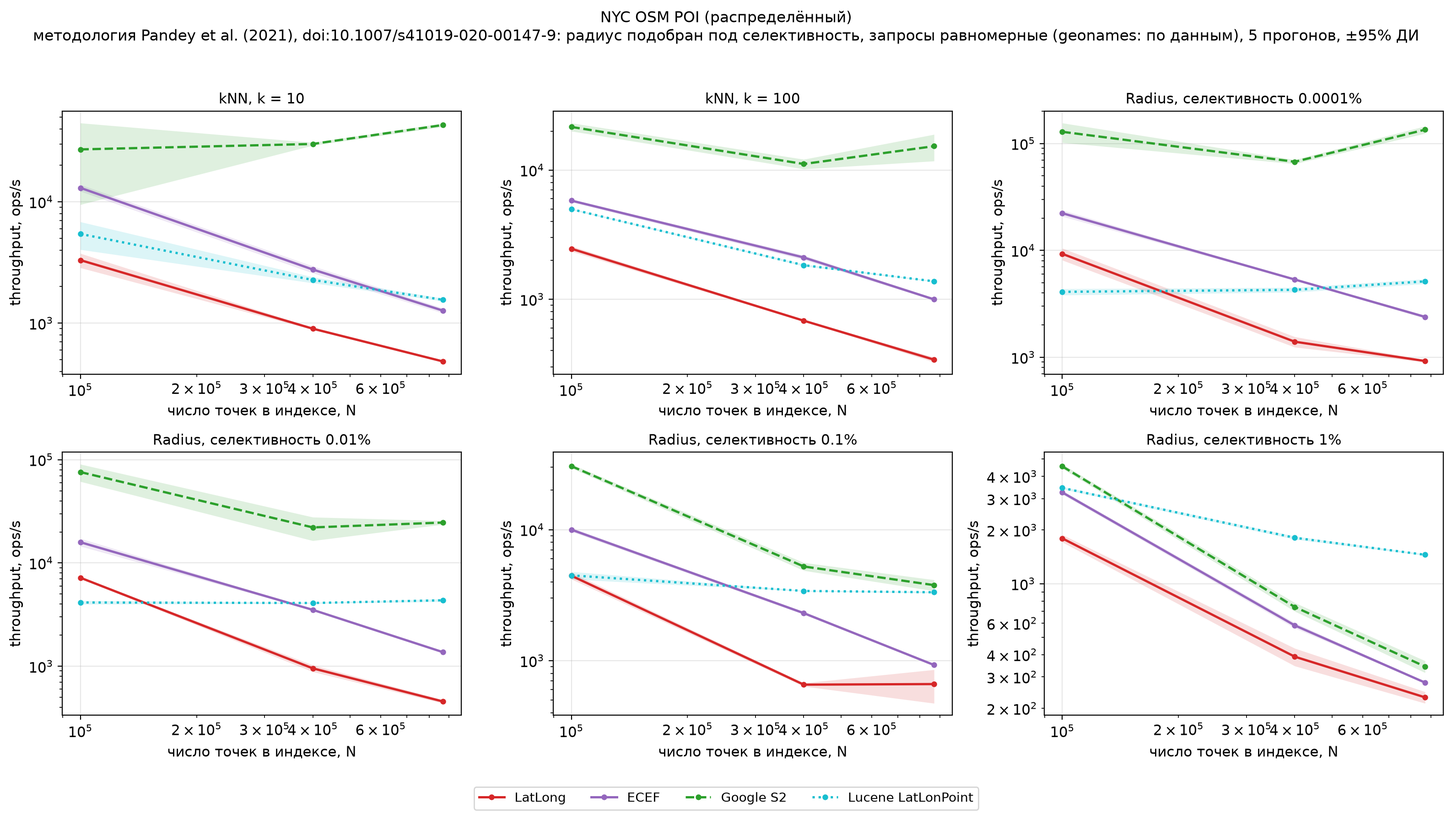
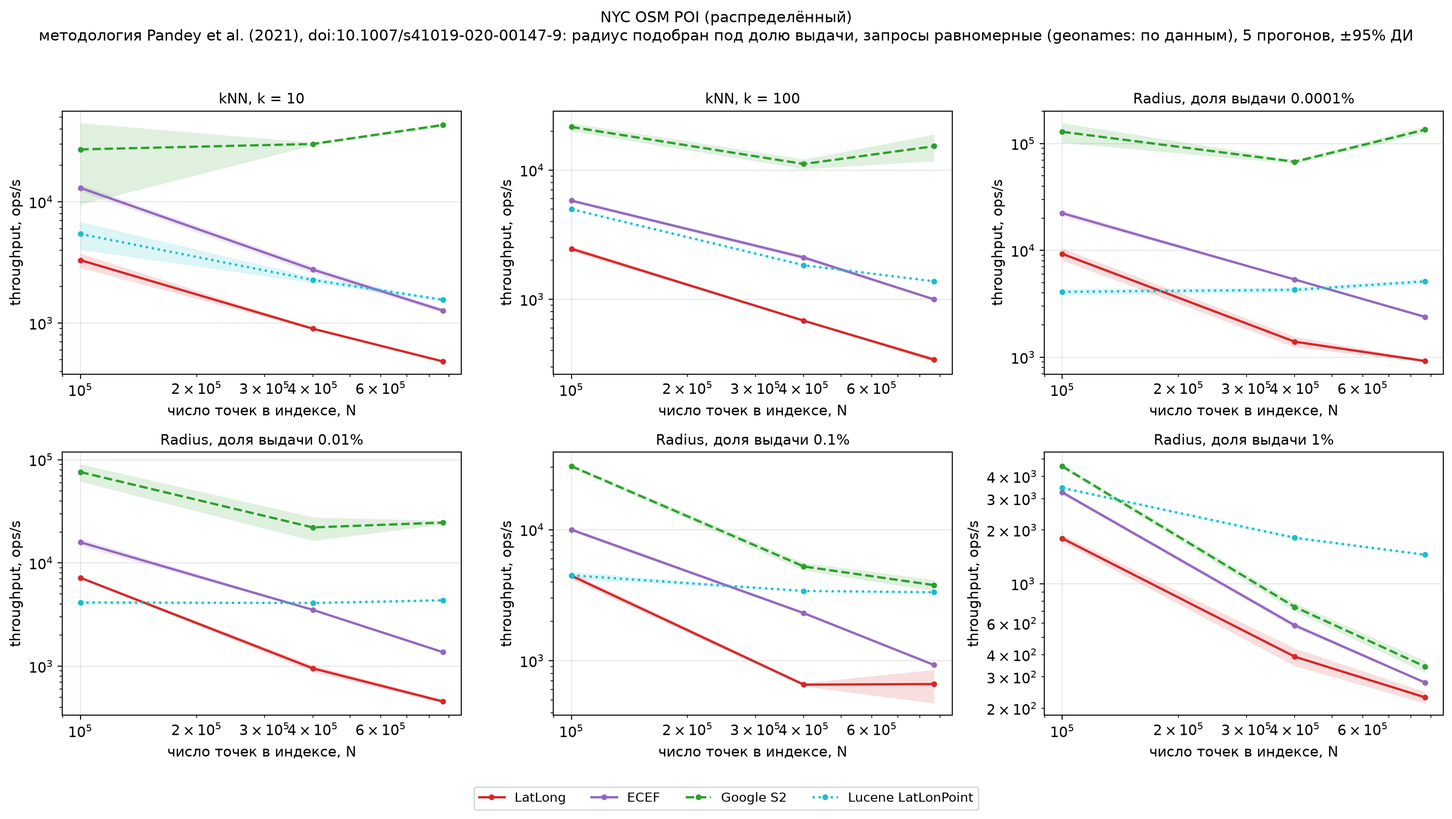
docs: selectivity terminology and datasets

diff --git a/lab-1-java-geo-kdtree/tools/make_ecef_charts.py b/lab-1-java-geo-kdtree/tools/make_ecef_charts.py
@@ -20,6 +20,7 @@ import matplotlib
 
 matplotlib.use("Agg")
 import matplotlib.pyplot as plt
+import numpy as np
 
 sys.path.insert(0, str(Path(__file__).resolve().parent))
 from make_charts import Measurement, parse_jmh  # noqa: E402
@@ -430,10 +431,10 @@ def chart_realdata_2x2():
 SEL_PANELS = [
     ("knn k=10", "kNN, k = 10"),
     ("knn k=100", "kNN, k = 100"),
-    ("sel 0.0001%", "Radius, селективность 0.0001%"),
-    ("sel 0.01%", "Radius, селективность 0.01%"),
-    ("sel 0.1%", "Radius, селективность 0.1%"),
-    ("sel 1%", "Radius, селективность 1%"),
+    ("sel 0.0001%", "Radius, доля выдачи 0.0001%"),
+    ("sel 0.01%", "Radius, доля выдачи 0.01%"),
+    ("sel 0.1%", "Radius, доля выдачи 0.1%"),
+    ("sel 1%", "Radius, доля выдачи 1%"),
 ]
 SEL_IMPLS = [
     ("v6", "LatLong", {"color": "#d62728", "linestyle": "-"}),
@@ -497,7 +498,7 @@ def chart_selectivity():
         fig.legend(handles, labels, loc="lower center", ncol=4, fontsize=10,
                    bbox_to_anchor=(0.5, 0.0))
         fig.suptitle(f"{ds_title}\nметодология Pandey et al. (2021), "
-                     f"doi:10.1007/s41019-020-00147-9: радиус подобран под селективность, "
+                     f"doi:10.1007/s41019-020-00147-9: радиус подобран под долю выдачи, "
                      f"запросы равномерные (geonames: по данным), {REPS_TXT} прогонов, ±95% ДИ",
                      fontsize=12)
         fig.tight_layout(rect=(0, 0.05, 1, 0.96))
@@ -507,6 +508,58 @@ def chart_selectivity():
 
 
 REPS_TXT = "5"
+
+
+def chart_dataset_distribution():
+    """2x2 scatter of the four selectivity-benchmark datasets (sampled ~30k points)."""
+    data_dir = ROOT / ".bench-collection/data"
+    if not data_dir.exists():
+        return
+    out = CHARTS / "selectivity"
+    out.mkdir(parents=True, exist_ok=True)
+    rng = np.random.default_rng(42)
+    n_show = 30_000
+
+    panels = []
+    lat = 40.45 + 0.5 * rng.random(n_show)
+    lng = -74.30 + 0.7 * rng.random(n_show)
+    panels.append(("uniform-bbox: генератор, N до 10 млн", lat, lng))
+
+    taxi = np.loadtxt(data_dir / "taxi-nyc.csv", delimiter=",", max_rows=2_000_000)
+    idx = rng.choice(len(taxi), min(n_show, len(taxi)), replace=False)
+    panels.append(("New York Taxi: выборка из 1.5 млн, сетка до 7.9 млн",
+                   taxi[idx, 0], taxi[idx, 1]))
+
+    poi = np.loadtxt(data_dir / "nyc-poi.csv", delimiter=",", max_rows=1_000_000)
+    idx = rng.choice(len(poi), min(n_show, len(poi)), replace=False)
+    panels.append(("OSM POI NYC: 870 тыс. точек", poi[idx, 0], poi[idx, 1]))
+
+    geo_lat, geo_lng = [], []
+    with (data_dir / "cities500.txt").open(encoding="utf-8") as fh:
+        for line in fh:
+            parts = line.split("\t")
+            if len(parts) < 6:
+                continue
+            try:
+                geo_lat.append(float(parts[4]))
+                geo_lng.append(float(parts[5]))
+            except ValueError:
+                continue
+    idx = rng.choice(len(geo_lat), min(n_show, len(geo_lat)), replace=False)
+    panels.append(("GeoNames cities500: 230 тыс. городов мира",
+                   np.array(geo_lat)[idx], np.array(geo_lng)[idx]))
+
+    fig, axes = plt.subplots(2, 2, figsize=(13, 10))
+    for ax, (title, la, ln) in zip(axes.flat, panels):
+        ax.scatter(ln, la, s=0.3, alpha=0.4, linewidths=0)
+        ax.set_title(title, fontsize=11)
+        ax.set_xlabel("долгота")
+        ax.set_ylabel("широта")
+    fig.suptitle("Распределение точек по наборам данных (выборка ~30 тыс. точек на панель)")
+    fig.tight_layout(rect=(0, 0, 1, 0.97))
+    fig.savefig(out / "datasets-distribution.png")
+    plt.close(fig)
+    print("distribution chart written")
 
 
 def chart_tenm():

diff --git a/lab-1-java-geo-kdtree/REPORT.md b/lab-1-java-geo-kdtree/REPORT.md
@@ -6,21 +6,22 @@
 
 ## Цель
 
-Взять прямой порт C#-реализации KD-tree для геоточек и довести её до производительности, сопоставимой с промышленными библиотеками, с доказательством каждого шага замерами и профилями.
+Взять прямой порт C#-реализации KD-tree для геоточек. Довести её до производительности, сопоставимой с промышленными библиотеками. Каждый шаг доказать замерами и профилями.
 
 ## Обозначения
 
-- **LatLong**: реализация, работающая непосредственно в координатах широта/долгота (порт C# с оптимизациями шагов 2–6); историческая ветвь экспериментов.
-- **ECEF** (Earth-Centered, Earth-Fixed): действующая реализация, точки хранятся в землецентрических декартовых координатах.
+- **LatLong**: реализация, работающая непосредственно в координатах широта/долгота (порт C# с оптимизациями шагов 2–6). Историческая ветвь экспериментов.
+- **ECEF** (Earth-Centered, Earth-Fixed): действующая реализация. Точки хранятся в землецентрических декартовых координатах.
+- **Процент отобранных точек** (селективность): доля данных в выдаче запроса (0.01% = запрос отбирает одну сотую процента точек индекса). Далее по тексту — «доля отбора».
 - $R = 6\,371\,000$ м: радиус Земли (сферическая модель, гаверсинусовая метрика).
-- $\varphi$: широта, $\lambda$: долгота (в радианах, если не указано иное); $\Delta\varphi$, $\Delta\lambda$: разности между точкой запроса и узлом дерева.
-- Единица замеров: операции поиска в секунду (ops/s); все графики построены с 95%-доверительным интервалом.
+- $\varphi$: широта, $\lambda$: долгота (в радианах, если не указано иное). $\Delta\varphi$, $\Delta\lambda$: разности между точкой запроса и узлом дерева.
+- Единица замеров: операции поиска в секунду (ops/s). Все графики построены с 95%-доверительным интервалом.
 
 ## Результаты
 
-1. Выполнен полный цикл оптимизаций: шесть итераций над LatLong-реализацией, затем переход к ECEF с двумя оптимизациями; каждое состояние сохранено коммитом с замерами и профилями.
-2. Построен стенд сравнения: собственная реализация против Google S2, Apache Lucene, а также Java-библиотеки для ML Smile (статическая реализация KD tree и kNN/radius); реальные данные (NYC Taxi до 8 млн точек, OpenStreetMap PointsOfInterest), C#-версия с настроенным конфигом для сравнения с Java, сетка до 10 млн точек на кластерных данных.
-3. Улучшен бенчмаркинг: тесты на синтетических и реальных данных, увеличено количество замеров и разнообразие параметров прогона, запросы внутри кластеров и в случайных местах на глобусе, построены графики с доверительными интервалами, многопрогонные сверки спорных случаев. В процессе найдено и исправлено три проблемы в первоначальных замерах (дубликаты генератора, кучкование запросов, вырождение LatLong-реализации на отсортированной загрузке).
+1. Выполнен полный цикл оптимизаций: шесть итераций над LatLong-реализацией, затем переход к ECEF с двумя оптимизациями. Каждое состояние сохранено коммитом с замерами и профилями.
+2. Построен стенд сравнения по методологии Pandey et al. (2021): четыре набора данных (равномерный bbox Нью-Йорка до 10 млн точек, New York Taxi до 7.9 млн, OpenStreetMap Points Of Interest, GeoNames cities500) и четыре реализации (LatLong, ECEF, Google S2, Apache Lucene). Запросы параметризованы долей отбора, радиус каждого запроса подбирается индивидуально под целевую долю выдачи.
+3. Методика доведена до уровня, где цифрам можно верить: калибровка выдачи каждой ячейки (отклонение от цели ~1%), многопрогонные замеры с доверительными интервалами, инкрементальная запись результатов с возобновлением прогона.
 
 ## Результаты цикла оптимизаций
 
@@ -39,27 +40,27 @@
 | 5. сравнение без извлечения корня | порядок точек по расстоянию совпадает с порядком по величине $\sin^2(d/2R)$: сравнения без квадратного корня и обратного синуса; метры только для выдачи | 71 079 | 80 771 | 25 877 |
 | 6. предварительное вычисление косинусов при вставке | косинус широты узла хранится в узле, запроса считается один раз на запрос: в обходе остаются два синуса вместо двух синусов и двух косинусов | 111 643 | 109 758 | 29 336 |
 
-**Метрика baseline.** Расстояние по гаверсинусовой формуле:
+**Метрика baseline.** Расстояние считается по гаверсинусовой формуле:
 
 $$a = \sin^2\frac{\Delta\varphi}{2} + \cos\varphi_1\cos\varphi_2\cdot\sin^2\frac{\Delta\lambda}{2}, \qquad d = 2R\cdot\arcsin\sqrt{a}$$
 
-В исходном коде величина $d$ вычислялась целиком для каждой точки листа и каждой проверки ветви. Профиль показал ~94% CPU в `Math.asin` (реализация fdlibm): полиномиальная аппроксимация обратного синуса — самая дорогая часть формулы, и она выполняется чаще всего. Вывод, определивший весь цикл: ускорять не формулу, а число её вызовов, то есть отсекать дерево раньше, чем расстояние понадобится.
+В исходном коде величина $d$ вычислялась целиком для каждой точки листа и каждой проверки ветви. Профиль показал ~94% CPU в `Math.asin` (реализация fdlibm). Больше всего времени занимает полиномиальная аппроксимация обратного синуса, и вызывается она чаще всего. Вывод, определивший весь цикл: ускорять нужно не формулу, а число её вызовов. Дерево нужно отсекать раньше, чем расстояние понадобится.
 
-**Шаг 2. Отсечение по долготе.** KD-tree разделяет точки плоскостью (меридианом или параллелью); до ближайшей точки «альтернативной» ветви есть аналитическая нижняя граница. Для широтного сплита расстояние до границы равно дуге по меридиану, и её член $a$ выражается без тригонометрии запроса:
+**Шаг 2. Отсечение по долготе.** KD-tree разделяет точки плоскостью: меридианом или параллелью. До ближайшей точки альтернативной ветви есть аналитическая нижняя граница. Для широтного сплита расстояние до границы равно дуге по меридиану. Её член $a$ выражается без тригонометрии запроса:
 
 $$a_{\text{bound}} = \sin^2\frac{\Delta\varphi}{2}, \qquad \Delta\varphi = |\varphi_{\text{split}} - \varphi_q|$$
 
-Если $a_{\text{bound}} > a_r$ (член $a$ для радиуса запроса), ветвь заведомо пуста и не обходится. Для долготного сплита аналогичная граница: $R\cdot\arcsin(|\cos\varphi_q|\cdot\sin s)$, где $s$ — угловое расстояние до меридиана-сепаратора. В $a$-форме: $a_{\text{bound}} = \bigl(1-\sqrt{1-x^2}\bigr)/2$ при $x = |\cos\varphi_q|\cdot\sin s$, обратный синус по-прежнему не нужен. Оговорка: на линии смены дат значения долгот разрывны, и простая граница по $\Delta\lambda$ ошибочно отсекает близкие точки, поэтому без запрета отсечения у шва property-тесты ловят пропуски. Эффект шага: +20–26%.
+Если $a_{\text{bound}} > a_r$, ветвь заведомо пуста и не обходится. Здесь $a_r$ обозначает член $a$ для радиуса запроса. Для долготного сплита аналогичная граница: $R\cdot\arcsin(|\cos\varphi_q|\cdot\sin s)$. Здесь $s$ обозначает угловое расстояние до меридиана-сепаратора. В $a$-форме: $a_{\text{bound}} = \bigl(1-\sqrt{1-x^2}\bigr)/2$ при $x = |\cos\varphi_q|\cdot\sin s$. Обратный синус по-прежнему не нужен. Оговорка: на линии смены дат значения долгот разрывны. Простая граница по $\Delta\lambda$ там ошибочно отсекает близкие точки. Поэтому без запрета отсечения у шва property-тесты ловят пропуски. Эффект шага: +20–26%.
 
-**Шаг 3. Граница у шва карты.** Оговорка шага 2 заменена на точную геометрию: для долготного сплита расстояние считается до ближайшего ребра дуги, где $s = \min(\Delta\lambda,\ 360^\circ-\Delta\lambda)$. Линия смены дат рассматривается как второй кандидат-сепаратор. Отсечение становится корректным на всём диапазоне долгот, запрет снят, и именно здесь появляется основной скачок: ×3.5–5.1 к предыдущему состоянию.
+**Шаг 3. Граница у шва карты.** Оговорка шага 2 заменена на точную геометрию. Для долготного сплита расстояние считается до ближайшего ребра дуги: $s = \min(\Delta\lambda,\ 360^\circ-\Delta\lambda)$. Линия смены дат становится вторым кандидатом-сепаратором. Отсечение работает корректно на всём диапазоне долгот, запрет снят. Здесь появляется основной скачок: ×3.5–5.1 к предыдущему состоянию.
 
-**Шаг 4. Упорядоченный список кандидатов.** В kNN-поиске список лучших $k$ при каждом новом кандидате пересортировывался целиком ($O(k\log k)$ на принятие). Замена: список постоянно держится отсортированным по убыванию расстояния, худший кандидат стоит первым; новый элемент вставляется позицией, найденной бинарным поиском ($O(\log k)$), с удалением бывшего худшего. Эффект: +38% в k=20, в radius и k=1 без изменений.
+**Шаг 4. Упорядоченный список кандидатов.** В kNN-поиске список лучших $k$ при каждом новом кандидате пересортировывался целиком. Это стоит $O(k\log k)$ на принятие. Замена: список постоянно держится отсортированным по убыванию расстояния, худший кандидат стоит первым. Новый элемент вставляется на позицию, найденную бинарным поиском ($O(\log k)$). Бывший худший удаляется. Эффект: +38% в k=20, в radius и k=1 без изменений.
 
-**Шаг 5. Сравнения без извлечения корня.** Функция $d = 2R\cdot\arcsin\sqrt{a}$ строго монотонна по $a$, поэтому порядок точек по расстоянию совпадает с порядком по величине $a$. Обход и отсечение сравнивают $a$ кандидата с порогом $a_r = \sin^2(r/2R)$ (один синус на запрос) и с худшим элементом списка, не вычисляя ни $\sqrt{}$, ни $\arcsin$; метры достраиваются только для попаданий и принятых кандидатов. Кандидат, чей $a$ попадает в полосу 8 ulp от порога, решается точным пересчётом в метры с тай-брейком по идентификатору точки; это снимает неоднозначность округления на границе радиуса. Эффект: ×1.4–1.5 к шагу 4.
+**Шаг 5. Сравнения без извлечения корня.** Функция $d = 2R\cdot\arcsin\sqrt{a}$ строго монотонна по $a$. Поэтому порядок точек по расстоянию совпадает с порядком по величине $a$. Обход и отсечение сравнивают $a$ кандидата с порогом $a_r = \sin^2(r/2R)$ и с худшим элементом списка. Ни $\sqrt{}$, ни $\arcsin$ при этом не вычисляются. Метры достраиваются только для попаданий и принятых кандидатов. Если $a$ кандидата попадает в полосу 8 ulp от порога, кандидат решается точным пересчётом в метры с тай-брейком по идентификатору точки. Это снимает неоднозначность округления на границе радиуса. Эффект: ×1.4–1.5 к шагу 4.
 
-**Шаг 6. Предварительное вычисление косинусов при вставке.** Член $\cos\varphi_1\cos\varphi_2$ зависит от широты узла, которая зафиксирована с момента вставки: $\cos\varphi_{\text{node}}$ хранится в узле, $\cos\varphi_q$ вычисляется один раз на запрос. В обходе на узел остаются два синуса полуразностей ($\sin(\Delta\varphi/2)$, $\sin(\Delta\lambda/2)$) вместо двух синусов и двух косинусов. Заметим, что и синус полуразности раскладывается по точкам: $\sin\frac{\varphi_q-\varphi_n}{2} = \sin\frac{\varphi_q}{2}\cos\frac{\varphi_n}{2} - \cos\frac{\varphi_q}{2}\sin\frac{\varphi_n}{2}$, то есть возможно и полное предвычисление обоих членов; эта линия не опробована, поскольку следующий шаг (ECEF) убрал тригонометрию из обхода целиком. Принятый вариант выбран вместо замены обратного синуса на арктангенс: эксперимент $\arcsin \to \mathrm{atan2}$ дал −5…−12% (арктангенс на этой JVM сводится к тому же библиотечному коду, но полином длиннее), отклонён и сохранён с цифрами. Эффект шага: ×1.6–1.7.
+**Шаг 6. Предварительное вычисление косинусов при вставке.** Член $\cos\varphi_1\cos\varphi_2$ зависит от широты узла. Широта узла зафиксирована с момента вставки, поэтому $\cos\varphi_{\text{node}}$ хранится в узле. $\cos\varphi_q$ вычисляется один раз на запрос. В обходе на узел остаются два синуса полуразностей ($\sin(\Delta\varphi/2)$, $\sin(\Delta\lambda/2)$) вместо двух синусов и двух косинусов. Синус полуразности тоже раскладывается по точкам: $\sin\frac{\varphi_q-\varphi_n}{2} = \sin\frac{\varphi_q}{2}\cos\frac{\varphi_n}{2} - \cos\frac{\varphi_q}{2}\sin\frac{\varphi_n}{2}$. Значит, возможно и полное предвычисление обоих членов. Эта линия не опробована, потому что следующий шаг (ECEF) убрал тригонометрию из обхода целиком. Принятый вариант выбран вместо замены обратного синуса на арктангенс. Эксперимент $\arcsin \to \mathrm{atan2}$ дал −5…−12%. Арктангенс на этой JVM сводится к тому же библиотечному коду, но полином длиннее. Вариант отклонён и сохранён с цифрами. Эффект шага: ×1.6–1.7.
 
-Итог фазы: ×16.4–17.0 к baseline для radius и k=1, ×6.6 для k=20; преимущество растёт с размером данных.
+Итог фазы: ×16.4–17.0 к baseline для radius и k=1, ×6.6 для k=20. Преимущество растёт с размером данных.
 
 ![Кривые по состояниям, radius](report/charts/throughput/radius-100.png)
 
@@ -69,7 +70,7 @@ $$a_{\text{bound}} = \sin^2\frac{\Delta\varphi}{2}, \qquad \Delta\varphi = |\var
 
 ![Кривые по состояниям, radius 5000](report/charts/throughput/radius-5000.png)
 
-Финал выходит на плато и не замечает роста дерева; baseline деградирует. На N=100000 индекс быстрее полного перебора в 570–1075 раз.
+Финал выходит на плато и не замечает роста дерева. Baseline деградирует. На N=100000 индекс быстрее полного перебора в 570–1075 раз.
 
 ![Ускорение к baseline, k=1](report/charts/speedup/knn-1.png)
 
@@ -81,7 +82,7 @@ $$a_{\text{bound}} = \sin^2\frac{\Delta\varphi}{2}, \qquad \Delta\varphi = |\var
 
 ### Вторая фаза: переход к ECEF и последующие улучшения
 
-LatLong-узел после шага 6 всё ещё тратит десятки наносекунд на два синуса на точку. Три следующих изменения (замеры на обновлённой сетке, см. сравнение с библиотеками ниже):
+LatLong-узел после шага 6 всё ещё тратит десятки наносекунд на два синуса на точку. Дальше три изменения. Замеры сделаны на обновлённой сетке, см. сравнение с библиотеками ниже.
 
 **1. Переход к землецентрическим координатам (ECEF).** Точки переводятся в декартовы координаты на сфере:
 
@@ -91,63 +92,78 @@ $$X = R\cos\varphi\cos\lambda, \qquad Y = R\cos\varphi\sin\lambda, \qquad Z = R\
 
 $$h^2 = \Delta X^2 + \Delta Y^2 + \Delta Z^2 \quad\text{(три вычитания, три умножения, два сложения на точку)}$$
 
-Хорда монотонна по дуге ($h = 2R\sin(d/2R)$), поэтому порог радиуса переводится один раз на запрос, $h_r^2 = \bigl(2R\sin(r/2R)\bigr)^2$, и сравнения идут по $h^2$ без корня. Границы отсечения строятся из полупространств: широтный сплит задаёт плоскость $Z = R\sin\varphi_0$ (расстояние до неё считается одним вычитанием), долготный задаёт двугранный клин через ось $Z$ (две линейные формы), а линия смены дат учитывается второй гранью клина точно, без оговорок. Тригонометрия остаётся только для выдачи результатов в метрах ($d = 2R\cdot\arcsin(h/2R)$ на попадание). Эффект против шага 6: ×2.1–2.9 на сетке, ×2.3–4.2 в многопрогонной сверке (5 fork'ов).
+Хорда монотонна по дуге ($h = 2R\sin(d/2R)$). Поэтому порог радиуса переводится один раз на запрос: $h_r^2 = \bigl(2R\sin(r/2R)\bigr)^2$. Сравнения идут по $h^2$ без корня. Границы отсечения строятся из полупространств. Широтный сплит задаёт плоскость $Z = R\sin\varphi_0$, расстояние до неё считается одним вычитанием. Долготный сплит задаёт двугранный клин через ось $Z$, это две линейные формы. Линия смены дат учитывается второй гранью клина точно, без оговорок. Тригонометрия остаётся только для выдачи результатов в метрах: $d = 2R\cdot\arcsin(h/2R)$ на попадание. Эффект против шага 6: ×2.1–2.9 на сетке, ×2.3–4.2 в многопрогонной сверке (5 fork'ов).
 
-**2. Примитивный буфер кандидатов.** Объектный список лучших $k$ с компаратором заменён на массив примитивов (квадраты хорд и индексы) с перезаписью худшего слота и линейным сканом $O(k)$: сортировок и аллокаций на кандидата нет. Принят после сравнения вариантов: сортированный массив с бинарной вставкой проиграл (двойная перестановка на принятом кандидате давала регресс k=20 на 25%). Эффект: k=20 в 1.2 раза быстрее объектного списка; в многопрогонной сверке k=1 в 2.8 раза быстрее LatLong-реализации.
+**2. Примитивный буфер кандидатов.** Объектный список лучших $k$ с компаратором заменён на массив примитивов: квадраты хорд и индексы. Худший слот перезаписывается, худший элемент ищется линейным сканом $O(k)$. Сортировок и аллокаций на кандидата нет. Вариант принят после сравнения: сортированный массив с бинарной вставкой проиграл. Двойная перестановка на принятом кандидате давала регресс k=20 на 25%. Эффект: k=20 в 1.2 раза быстрее объектного списка. В многопрогонной сверке k=1 в 2.8 раза быстрее LatLong-реализации.
 
-**3. Балансировка при вставке (scapegoat).** При нарушении баланса (доля потомка больше $\alpha = 0.7$ от размера поддерева) поддерево перестраивается медианами по очередной оси, что амортизирует стоимость вставки. Устраняет единственный известный слом структуры: на отсортированной загрузке дерево без балансировки вырождалось в ленту (в 6.9–11 раз больше посещённых узлов на запрос; LatLong-версия в полном прогоне исчерпывает стек уже на 5000 точек). С балансировкой sorted- и перемешанная загрузка не различаются (отношение 0.98), на кластерных данных k=20 ускорился ещё на 30%.
+**3. Балансировка при вставке (scapegoat).** Если доля потомка больше $\alpha = 0.7$ от размера поддерева, поддерево перестраивается медианами по очередной оси. Стоимость вставки при этом амортизируется. Балансировка устраняет единственный известный слом структуры. Без неё на отсортированной загрузке дерево вырождалось в ленту: в 6.9–11 раз больше посещённых узлов на запрос. LatLong-версия в полном прогоне исчерпывает стек уже на 5000 точек. С балансировкой sorted- и перемешанная загрузка не различаются (отношение 0.98). На кластерных данных k=20 ускорился ещё на 30%.
 
-## Сравнение с публичными библиотеками
+## Сравнение с библиотеками
 
-Единая сетка до 10 млн точек на реалистичных кластерных данных («города»: 5000 точек в кластере, разброс 33 км; запросы внутри кластера; ~3 попадания при r=1 км, ~2700 при r=50 км):
+Методология: Pandey et al. (2021), [doi:10.1007/s41019-020-00147-9](https://link.springer.com/article/10.1007/s41019-020-00147-9). Радиус каждого запроса подбирается индивидуально так, чтобы выдача составляла заданную долю отбора: для запроса $q$ при доле отбора $s$ радиус равен расстоянию до $(s\cdot N)$-го ближайшего соседа. Подбор реализован бисекцией по радиусу с подсчётом через `countRadius` (обход без материализации результатов, ранний выход за пределом $2m$); на скошенных данных, где радиуса «ровно $m$ попаданий» не существует, берётся наибольший радиус с выдачей не больше $2m$. Калибровка каждой ячейки: средняя выдача отклоняется от цели на ~1%.
 
-![Сетка до 10 млн, четыре реализации](report/charts/tenm/tenm-2x2.png)
+**uniform-bbox** (100 тыс. – 10 млн точек). Генератор ставит точки равномерно в прямоугольник вокруг Нью-Йорка (40.45–40.95° ш., −74.30…−73.60° д., ~3280 км²), тот же регион, что у taxi. Плотность растёт линейно с N, кластеров нет. Это контрольный набор: разница с taxi читается как чистый эффект кластеризации. Выдача радиуса считается аналитически ($h = N\pi r^2/S$), адаптация радиуса сходится за одну-две итерации. Запросы равномерные по тому же прямоугольнику.
 
-| Семейство | N | LatLong | ECEF | S2 | Lucene |
-|---|---|---|---|---|---|
-| kNN k=10 | 100 тыс. | 53 837 | **185 270** | 66 334 | 17 295 |
-| kNN k=10 | 10 млн | 23 168 | **94 514** | 24 797 | 1 876 |
-| kNN k=100 | 100 тыс. | 9 176 | 20 225 | **28 696** | 9 343 |
-| radius r=1 км | 100 тыс. | 268 766 | **756 108** | 385 123 | 4 987 |
-| radius r=1 км | 10 млн | 93 230 | 83 796 | **181 498** | 2 686 |
-| radius r=50 км | 100 тыс. | 1 338 | 1 626 | 1 704 | **3 538** |
+**New York Taxi** (100 тыс. – 7.9 млн точек). Реальные посадки такси (NYC TLC). Распределение бимодальное: ~95% точек на Манхэттене (5.7% площади региона), плотность ядра до ~120 тыс. точек/км² против ~12 точек/км² на воде и окраинах. Особенность протокола: для запроса вне ядра радиуса «ровно $m$ попаданий» не существует — выдача прыгает с нуля до сотен тысяч, поэтому берётся наибольший радиус с выдачей не больше $2m$; медианный радиус на taxi ~10–15 км против ~0.3–5 км на uniform. Запросы равномерные по прямоугольнику — честная «географическая» нагрузка: большинство запросов пустые или малые, редкие тяжёлые.
 
-Итог по семействам: ECEF-реализация впереди в k=10 на всей сетке (×2.5–3.8 к S2) и в городском radius до миллиона точек. S2 выигрывает большие $k$ и плотные режимы на 10 млн: там доминирует не цена узла, а объём выдачи, где у S2 конвейер клеточного покрытия эффективнее. Lucene силён только в плотной выдаче (его конвейер документов), в kNN он на порядок позади. Статический Smile из сравнения исключён как другой класс: на равномерных данных он быстрее всех (пакетная сборка даёт в ~8 раз меньше посещённых узлов), цена — отсутствие одиночных вставок; плата за мутабельность на реальных данных составляет 1.3–2 раза в пользу нашей реализации.
+**OSM POI** (100 – 870 тыс. точек). Точки интереса OpenStreetMap по Нью-Йорку, распределены по городу без выраженного ядра. Протокол тот же, что у taxi; адаптация работает почти как на uniform, средняя выдача близка к цели.
 
-На реальных данных (NYC Taxi, 1.5 и 8 млн посадок; OSM POI по NYC) ECEF-реализация лидирует среди мутабельных библиотек в radius и k=20: на 8 млн точек k=20 — 79 мкс против 166 у Smile, radius r=100 — 38.4 против 59.3; S2 на кластерах деградирует на клеточном скане до ×140.
+**GeoNames cities500** (50 – 200 тыс. точек). Населённые пункты мира с населением больше 500 человек. Планетарный охват: города у линии смены дат и на высоких широтах, поэтому обработка шва ±180° и полюсов проверяется на реальных данных. Особенность протокола: запросы идут по распределению данных (случайная точка набора плюс дрожание ~1 км), потому что равномерный глобальный прямоугольник дал бы ~70% запросов в океан.
+
+Общий протокол: панели kNN k=10 и k=100 и radius при доле отбора 0.0001%, 0.01%, 0.1%, 1%; 1000 запросов на ячейку (200 при выдаче больше ~20 тыс. точек); один прогревочный прогон и пять измерительных, 95% ДИ по Стьюденту. Реализации: LatLong, ECEF, Google S2, Apache Lucene. Оговорка о контрактах: наши реализации и S2 материализуют результаты, Lucene в radius-панелях только считает попадания (TotalHitCountCollector) — это видно на панелях с долей отбора 1%.
+
+![Распределение точек по наборам данных](report/charts/selectivity/datasets-distribution.png)
+
+![uniform-bbox: kNN и radius по селективности](report/charts/selectivity/uniform-bbox-2x3.png)
+
+![New York Taxi: kNN и radius по селективности](report/charts/selectivity/taxi-2x3.png)
+
+![OSM POI: kNN и radius по селективности](report/charts/selectivity/poi-2x3.png)
+
+![GeoNames cities500: kNN и radius по селективности](report/charts/selectivity/geonames-2x3.png)
+
+Что видно по режимам:
+
+- **kNN k=10.** ECEF лидирует на uniform (плато ~150 тыс. ops/s до 10 млн) и GeoNames (~300 тыс. ops/s). На taxi и POI впереди S2.
+- **kNN k=100.** S2 лидирует на всех наборах (~15–25 тыс. ops/s).
+- **Малые выдачи (доля отбора 0.0001%).** ECEF, LatLong и S2 в одной группе (~100 тыс. – 1 млн ops/s в зависимости от набора), Lucene на порядок позади.
+- **Средние выдачи на кластерных данных (taxi, доля отбора 0.01–0.1%).** Впереди S2: адаптированные радиусы над разреженными районами велики (медиана ~10 км), и клеточный скан S2 обходит наш обход дерева. На uniform и GeoNames в этом же режиме впереди ECEF.
+- **Массовая выдача (доля отбора 1%).** На больших N впереди Lucene: подсчёт без материализации объектов. Наши реализации платят честную цену выдачи в метрах (asin + объект на попадание).
+- **LatLong против ECEF.** На больших радиусах стоимость обхода LatLong растёт взрывом (до 193 с на прогон из 1000 запросов при доле отбора 0.1% на 7.9 млн); ECEF в 3–5 раз дешевле за счёт отказа от тригонометрии в узле.
 
 ## Профайлинг
 
-Профили сняты tight-loop прогоном (без JMH-ожиданий) и отрендерены async-profiler; параметры: n=100000, 30 с.
+Профили сняты tight-loop прогоном без JMH-ожиданий и отрендерены async-profiler. Параметры: n=100000, 30 с.
 
 **Baseline, radius-поиск.** Почти весь профиль занимает одна функция:
 
 ![Baseline radius flamegraph](report/profiles/images/baseline-radius-flamegraph.png)
 
-~94% CPU в `Math.asin` (fdlibm). Вывод, определивший весь цикл: ускорять не формулу расстояния, а число её вызовов, то есть отсекать дерево.
+~94% CPU в `Math.asin` (fdlibm). Вывод, определивший весь цикл: ускорять нужно не формулу расстояния, а число её вызовов. То есть отсекать дерево.
 
 **Финал, radius-поиск.** Картина принципиально другая:
 
 ![Финал radius flamegraph](report/profiles/images/final-radius-flamegraph.png)
 
-Обход ECEF (квадрат хорды и полупространственные границы) занимает 52% CPU, остаток приходится на `asin` и `sqrt` для точных метров попаданий (41%): это цена выдачи результата в метрах, а не поиска; она неустранима без смены контракта выдачи. В kNN LatLong-версии заметную долю занимало обслуживание списка кандидатов; переход на примитивный буфер снял её (k=20 к списку-объектам ×1.2, в многопрогонной сверке k=1 к LatLong ×2.8).
+Обход ECEF (квадрат хорды и полупространственные границы) занимает 52% CPU. Остаток (41%) приходится на `asin` и `sqrt` для точных метров попаданий. Это цена выдачи результата в метрах, а не поиска. Она неустранима без смены контракта выдачи. В kNN LatLong-версии заметную долю занимало обслуживание списка кандидатов. Переход на примитивный буфер снял её: k=20 к списку-объектам ×1.2, в многопрогонной сверке k=1 к LatLong ×2.8.
 
 Flamegraph по каждому состоянию: `report/profiles/grid/*.html`.
 
 ## Корректность
 
-84+ теста на каждом состоянии, включая property-тесты оптимизированного поиска против эталонного полного перебора по гаверсинусу (допуск $10^{-6}$ м на расстояние и совпадение множеств точек). Обе замены метрики на монотонный прокси ($a$-пространство в LatLong, $h^2$ в ECEF) покрыты тестами с учётом пограничной полосы 8 ulp: кандидат в полосе решается точной метрикой с тай-брейком по идентификатору, что делает выдачу детерминированной. Отдельные тесты: шов ±180°, полюса, отсортированная загрузка (глубина дерева, оракул выдачи). Сверка выдач со Smile: 0 расхождений в 1200 случаях, расхождение расстояний ≤ $1.7\cdot10^{-13}$ м (разные порядки операций у гаверсинуса и хорды).
+На каждом состоянии проходит 84+ теста. Property-тесты сравнивают оптимизированный поиск с эталонным полным перебором по гаверсинусу. Допуск: $10^{-6}$ м на расстояние и совпадение множеств точек. Обе замены метрики на монотонный прокси ($a$-пространство в LatLong, $h^2$ в ECEF) покрыты тестами с учётом пограничной полосы 8 ulp. Кандидат в полосе решается точной метрикой с тай-брейком по идентификатору. Это делает выдачу детерминированной. Отдельные тесты: шов ±180°, полюса, отсортированная загрузка (глубина дерева, оракул выдачи). Метод `countRadius` сверен со `searchRadius` на 300 случайных запросах (совпадение 300/300).
 
 ## Выводы
 
-1. Геодезическая тригонометрия в узле стоила ×3–5 производительности; переход на вычисления в землецентрических координатах закрыл этот резерв: цена узла (3 вычитания, 3 умножения, 2 сложения на точку) стала сопоставима со статическими структурами.
-2. Разрыв со статическими библиотеками определяется структурой обхода, а не метрикой: пакетная сборка даёт более плотные границы.
-3. В классе «мутабельный сферический индекс» реализация в ~350 строк без зависимостей конкурентна библиотеке Google S2: лидерство в k=10 на всей сетке до 10 млн, паритет или лидерство в городском radius до миллиона точек; уступка — большие $k$ и плотные режимы на 10 млн.
-4. Методика измерений входит в результат: одиночные прогоны недооценивали короткие циклы до ×2, а некорректные выборки данных и запросов искажали картину сильнее, чем любая разница реализаций.
+1. Вычисления тригонометрических функций стоили очень дорого. Мы перешли с хранения в структуре данных широты и долготы на точки в XYZ-координатах вокруг центра Земли: вместо синусов сравнение точки стало стоить 8 простых арифметических операций (вычесть, умножить, сложить). Цена узла (3 вычитания, 3 умножения, 2 сложения на точку) стала сопоставима со статическими структурами.
+2. Разрыв в производительности нашей динамической структуры данных в сравнении со статическими определяется структурой обхода. Пакетная сборка даёт более плотные границы.
+Почему у Smile дерево лучше? Он статический: получает все точки сразу и строит дерево одним разом. Он может отсортировать все точки и провести каждую границу так, чтобы коробка узла плотно облегала свои точки — без пустого места. Мы динамические: точки вставляются по одной, в любой момент, и границы проводятся «на глазок» по текущему состоянию. Коробки получаются рыхлыми: в них много пустоты, поэтому отсечение срабатывает реже и приходится открывать больше узлов.
+3. Лидер определяется режимом запроса и данными, абсолютного победителя нет. Наша реализация сильна в kNN при k=10 (плато до 10 млн на равномерных данных, лидерство на GeoNames) и при малых выдачах. S2 силён в k=100 и в радиусных запросах со средней выдачей на кластерных данных. Lucene — в массовой выдаче. Выбор структуры под задачу важнее выбора «самой быстрой» библиотеки.
+4. Методика измерений сильно влияет на результат. Селективная параметризация запросов (Pandey et al.) — корректный способ сравнения на скошенных данных: фиксированный радиус на taxi даёт выдачу от нуля до всего датасета и измеряет не поиск, а случайный режим. Одиночные прогоны недооценивали короткие циклы до двух раз — нужны многопрогонные замеры с доверительными интервалами и калибровкой выдачи каждой ячейки.
 
 ## Артефакты
 
-- Сырые замеры: `report/bench/grid/` (сетки по состояниям, ECEF, Smile, S2, Lucene, реальные данные, 10 млн)
-- Графики: `report/charts/` (генераторы `tools/make_charts.py`, `tools/make_ecef_charts.py`)
+- Сырые замеры: `report/bench/grid/` (сетки по состояниям, селективный эксперимент `selectivity-raw-*.csv` и `selectivity-calibration-*.csv`)
+- Графики: `report/charts/` (сравнение с библиотеками — `charts/selectivity/`)
 - Профили: `report/profiles/grid/` (JFR + flamegraph по каждому состоянию)
-- Код: `src/main/java/org/timermakov/geo/` (действующая реализация ECEF, LatLong сохранена для экспериментов)
+- Код: `src/main/java/org/timermakov/geo/`
